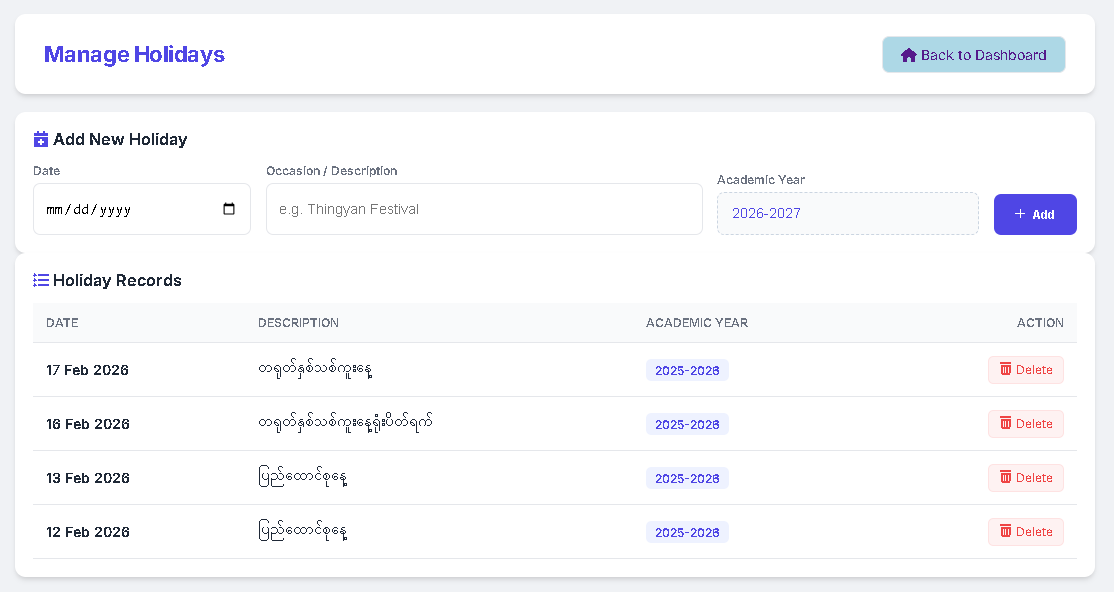
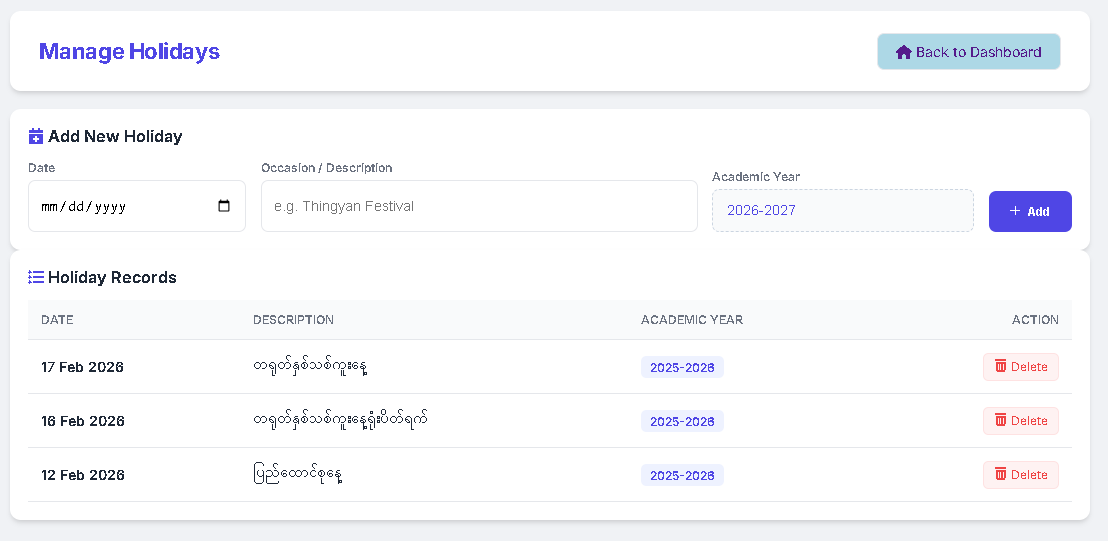
ed

diff --git a/README.md b/README.md
@@ -10,10 +10,10 @@
 ![Dashboard](screenshots/Dashboard.PNG)
 
 ### Manage Majors
-![Manage Majors](screenshots/majors.PNG)
+![Manage Majors](screenshots/manage_majors.PNG)
 
 ### Manage Courses
-![Manage Courses](screenshots/courses.PNG)
+![Manage Courses](screenshots/manage_courses.PNG)
 
 ### Manage Students
 ![Manage Students](screenshots/manage_student.PNG)
